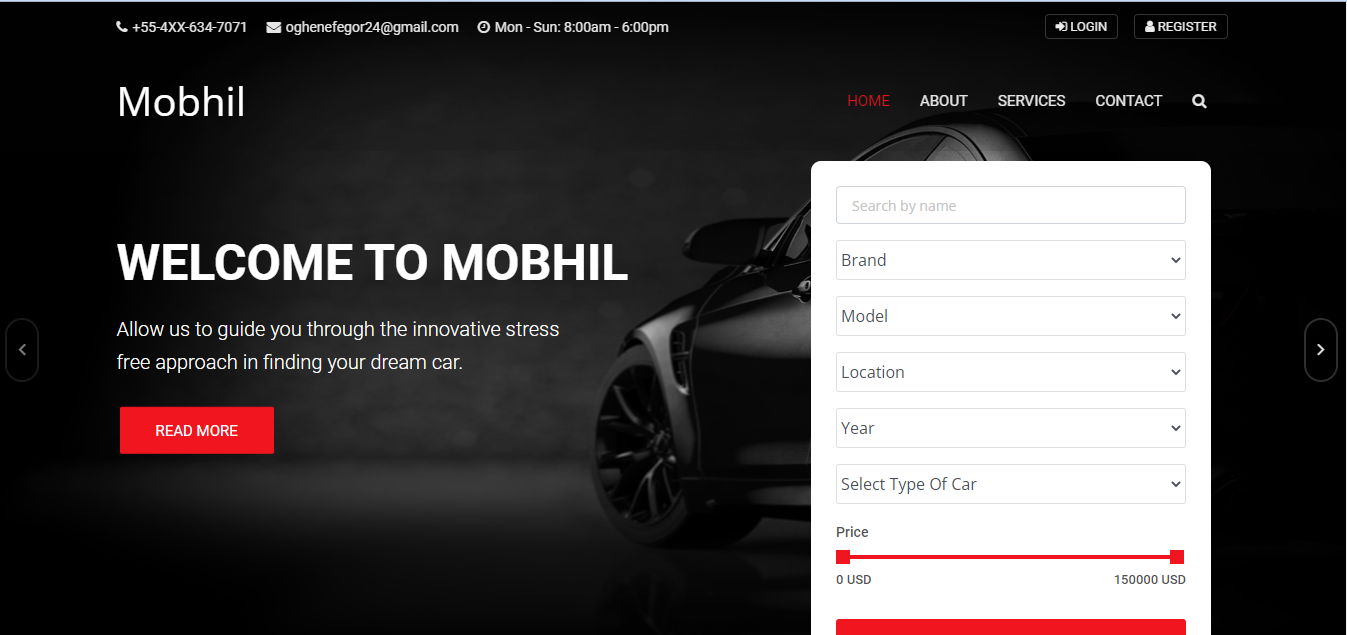
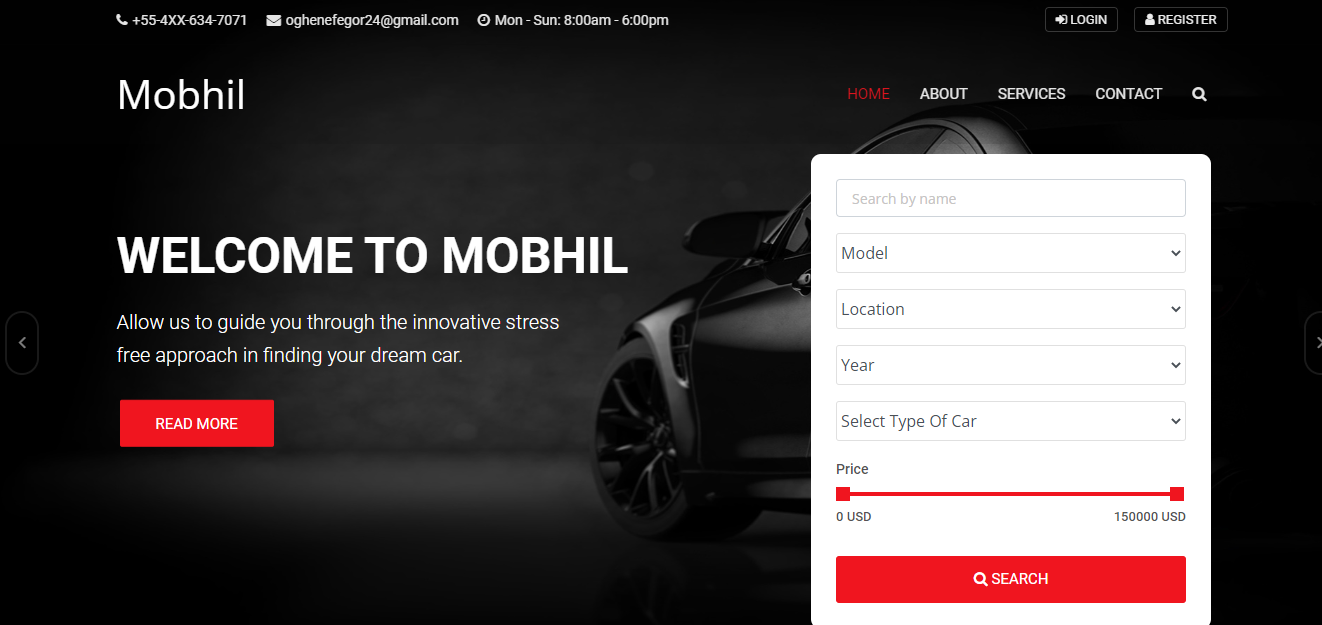
added search functionality and homepage picture

diff --git a/templates/pages/home.html b/templates/pages/home.html
@@ -27,69 +27,58 @@
                 </div>
             </div>
         </div>
-        <!-- Search box 3 start -->
-        <div class="search-box-4 sb-8">
-            <form action="#" method="">
-                <div class="form-group">
-                    <input type="text" name="keyword" placeholder="Search by name" class="form-control">
-                </div>
-                <div class="form-group">
-                    <select class="form-control search-fields" name="select-brand">
-                        <option selected="true" disabled="disabled">Brand</option>
-                        <option>Audi</option>
-                        <option>BMW</option>
-                        <option>Honda</option>
-                        <option>Nissan</option>
-                    </select>
-                </div>
-                <div class="form-group">
-                    <select class="form-control search-fields" name="select-make">
-                        <option selected="true" disabled="disabled">Model</option>
-                        <option>BMW</option>
-                        <option>Honda</option>
-                        <option>Lamborghini Huracán</option>
-                        <option>Sports Car</option>
-                    </select>
-                </div>
-                <div class="form-group">
-                    <select class="form-control search-fields" name="select-location">
-                        <option selected="true" disabled="disabled">Location</option>
-                        <option>United States</option>
-                        <option>United Kingdom</option>
-                    </select>
-                </div>
-                <div class="form-group">
-                    <select class="form-control search-fields" name="select-year">
-                        <option selected="true" disabled="disabled">Year</option>
-                        <option>2016</option>
-                        <option>2017</option>
-                        <option>2018</option>
-                        <option>2019</option>
-                    </select>
-                </div>
-                <div class="form-group">
-                    <select class="form-control search-fields" name="select-type">
-                        <option selected="true" disabled="disabled">Select Type Of Car</option>
-                        <option>Sedan</option>
-                        <option>Sports</option>
-                        <option>Hatchback</option>
-                        <option>Pickup Truck</option>
-                        <option>SUV</option>
-                    </select>
-                </div>
-                <div class="range-slider clearfix">
-                                <label>Price</label>
-                                <div data-min="0" data-max="150000"  data-min-name="min_price" data-max-name="max_price" data-unit="USD" class="range-slider-ui ui-slider" aria-disabled="false"></div>
-                                <div class="clearfix"></div>
-                            </div>
-                <div class="form-group">
-                    <button class="btn btn-block button-theme btn-md">
-                        <i class="fa fa-search"></i> Search
-                    </button>
-                </div>
-            </form>
-        </div>
-        <!-- Search box 3 end -->
+       <!-- Search box 3 start -->
+       <div class="search-box-4 sb-8">
+        <form action="{% url 'search' %}" method="">
+            <div class="form-group">
+                <input type="text" name="keyword" placeholder="Search by name" class="form-control">
+            </div>
+
+            <div class="form-group">
+                <select class="form-control search-fields" name="model">
+                    <option selected="true" disabled="disabled">Model</option>
+                    {% for model in model_search %}
+                      <option value="{{model}}">{{model}}</option>
+                    {% endfor %}
+                </select>
+            </div>
+            <div class="form-group">
+                <select class="form-control search-fields" name="city">
+                    <option selected="true" disabled="disabled">Location</option>
+                    {% for city in city_search %}
+                      <option value="{{city}}">{{city}}</option>
+                    {% endfor %}
+                </select>
+            </div>
+            <div class="form-group">
+                <select class="form-control search-fields" name="year">
+                    <option selected="true" disabled="disabled">Year</option>
+                    {% for year in year_search %}
+                      <option value="{{year}}">{{year}}</option>
+                    {% endfor %}
+                </select>
+            </div>
+            <div class="form-group">
+                <select class="form-control search-fields" name="body_style">
+                    <option selected="true" disabled="disabled">Select Type Of Car</option>
+                    {% for body_style in body_style_search %}
+                      <option value="{{body_style}}">{{body_style}}</option>
+                    {% endfor %}
+                </select>
+            </div>
+            <div class="range-slider clearfix">
+                            <label>Price</label>
+                            <div data-min="0" data-max="150000"  data-min-name="min_price" data-max-name="max_price" data-unit="USD" class="range-slider-ui ui-slider" aria-disabled="false"></div>
+                            <div class="clearfix"></div>
+                        </div>
+            <div class="form-group">
+                <button class="btn btn-block button-theme btn-md">
+                    <i class="fa fa-search"></i> Search
+                </button>
+            </div>
+        </form>
+    </div>
+    <!-- Search box 3 end -->
         <a class="carousel-control-prev none-580" href="#carouselExampleIndicators" role="button" data-slide="prev">
             <span class="slider-mover-left" aria-hidden="true">
                 <i class="fa fa-angle-left"></i>

diff --git a/cars/views.py b/cars/views.py
@@ -2,15 +2,25 @@ from django.shortcuts import render, get_object_or_404
 from .models import Car
 from django.core.paginator import EmptyPage, PageNotAnInteger, Paginator
 
+
 # Create your views here.
 def cars(request):
     cars = Car.objects.order_by('-created_date')
-    paginator = Paginator(cars, 3) #number of car listing we have per page
+    paginator = Paginator(cars, 4)
     page = request.GET.get('page')
     paged_cars = paginator.get_page(page)
 
+    model_search = Car.objects.values_list('model', flat=True).distinct()
+    city_search = Car.objects.values_list('city', flat=True).distinct()
+    year_search = Car.objects.values_list('year', flat=True).distinct()
+    body_style_search = Car.objects.values_list('body_style', flat=True).distinct()
+
     data = {
         'cars': paged_cars,
+        'model_search': model_search,
+        'city_search': city_search,
+        'year_search': year_search,
+        'body_style_search': body_style_search,
     }
     return render(request, 'cars/cars.html', data)
 
@@ -27,13 +37,50 @@ def car_detail(request, id):
 def search(request):
     cars = Car.objects.order_by('-created_date')
 
+    model_search = Car.objects.values_list('model', flat=True).distinct()
+    city_search = Car.objects.values_list('city', flat=True).distinct()
+    year_search = Car.objects.values_list('year', flat=True).distinct()
+    body_style_search = Car.objects.values_list('body_style', flat=True).distinct()
+    transmission_search = Car.objects.values_list('transmission', flat=True).distinct()
+
     if 'keyword' in request.GET:
         keyword = request.GET['keyword']
         if keyword:
             cars = cars.filter(description__icontains=keyword)
 
+    if 'model' in request.GET:
+        model = request.GET['model']
+        if model:
+            cars = cars.filter(model__iexact=model)
+
+    if 'city' in request.GET:
+        city = request.GET['city']
+        if city:
+            cars = cars.filter(city__iexact=city)
+
+    if 'year' in request.GET:
+        year = request.GET['year']
+        if year:
+            cars = cars.filter(year__iexact=year)
+
+    if 'body_style' in request.GET:
+        body_style = request.GET['body_style']
+        if body_style:
+            cars = cars.filter(body_style__iexact=body_style)
+
+    if 'min_price' in request.GET:
+        min_price = request.GET['min_price']
+        max_price = request.GET['max_price']
+        if max_price:
+            cars = cars.filter(price__gte=min_price, price__lte=max_price)
+
     data = {
         'cars': cars,
-    
+        'model_search': model_search,
+        'city_search': city_search,
+        'year_search': year_search,
+        'body_style_search': body_style_search,
+        'transmission_search': transmission_search,
     }
     return render(request, 'cars/search.html', data)
+

diff --git a/pages/views.py b/pages/views.py
@@ -8,12 +8,22 @@ def home(request):
     teams = Team.objects.all()
     featured_cars = Car.objects.order_by('-created_date').filter(is_featured=True)
     all_cars = Car.objects.order_by('-created_date')
+    model_search = Car.objects.values_list('model', flat=True).distinct()
+    city_search = Car.objects.values_list('city', flat=True).distinct()
+    year_search = Car.objects.values_list('year', flat=True).distinct()
+    body_style_search = Car.objects.values_list('body_style', flat=True).distinct()
     data = {
         'teams': teams,
         'featured_cars': featured_cars,
         'all_cars': all_cars,
+        'model_search': model_search,
+        'city_search': city_search,
+        'year_search': year_search,
+        'body_style_search': body_style_search,
     }
     return render(request, 'pages/home.html', data)
+
+
 
 def about(request):
     teams = Team.objects.all()
